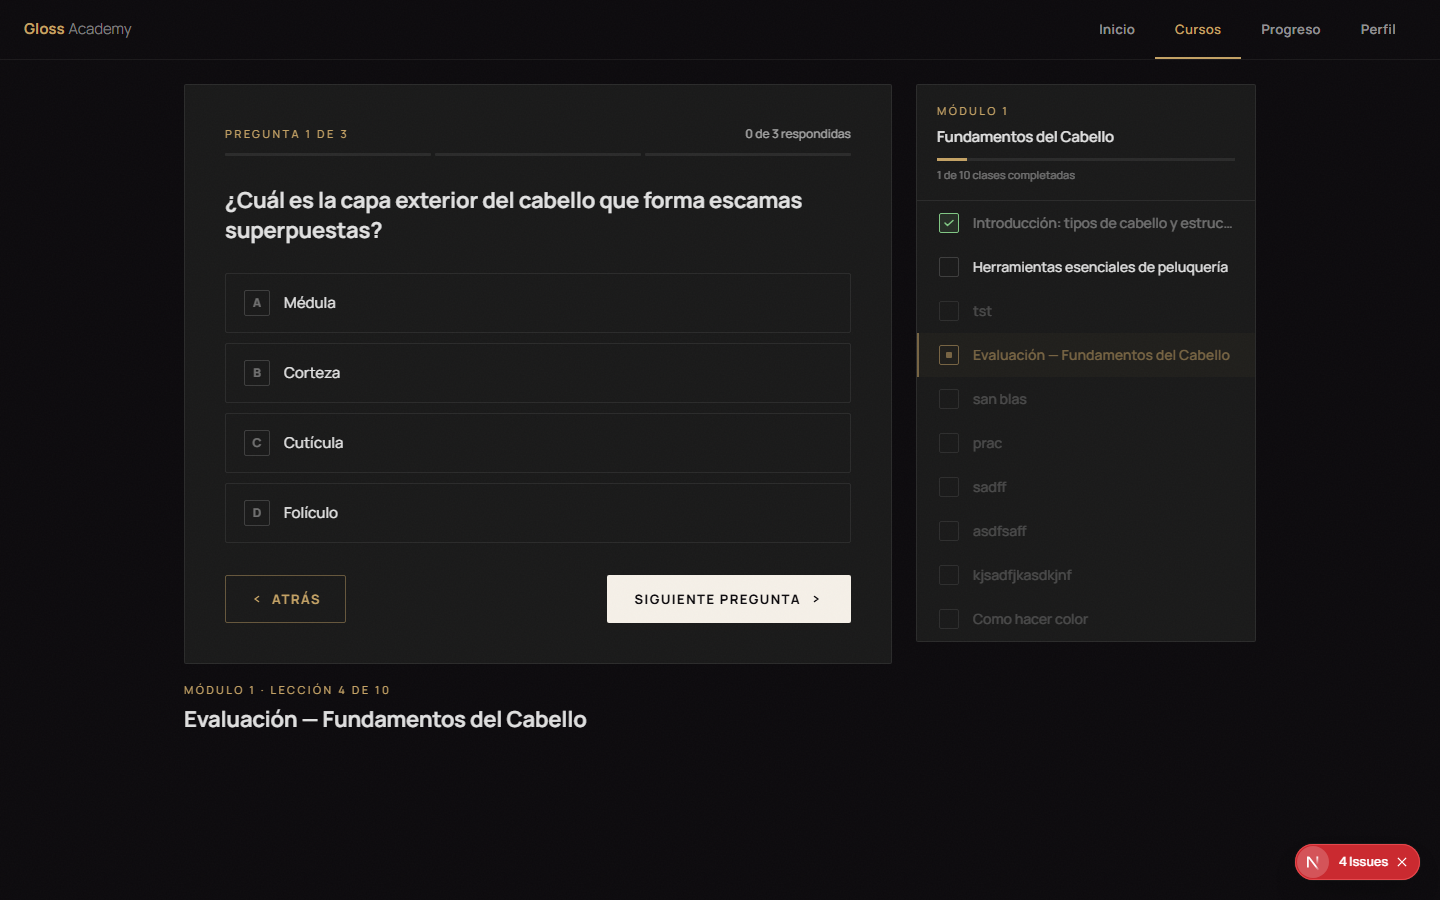
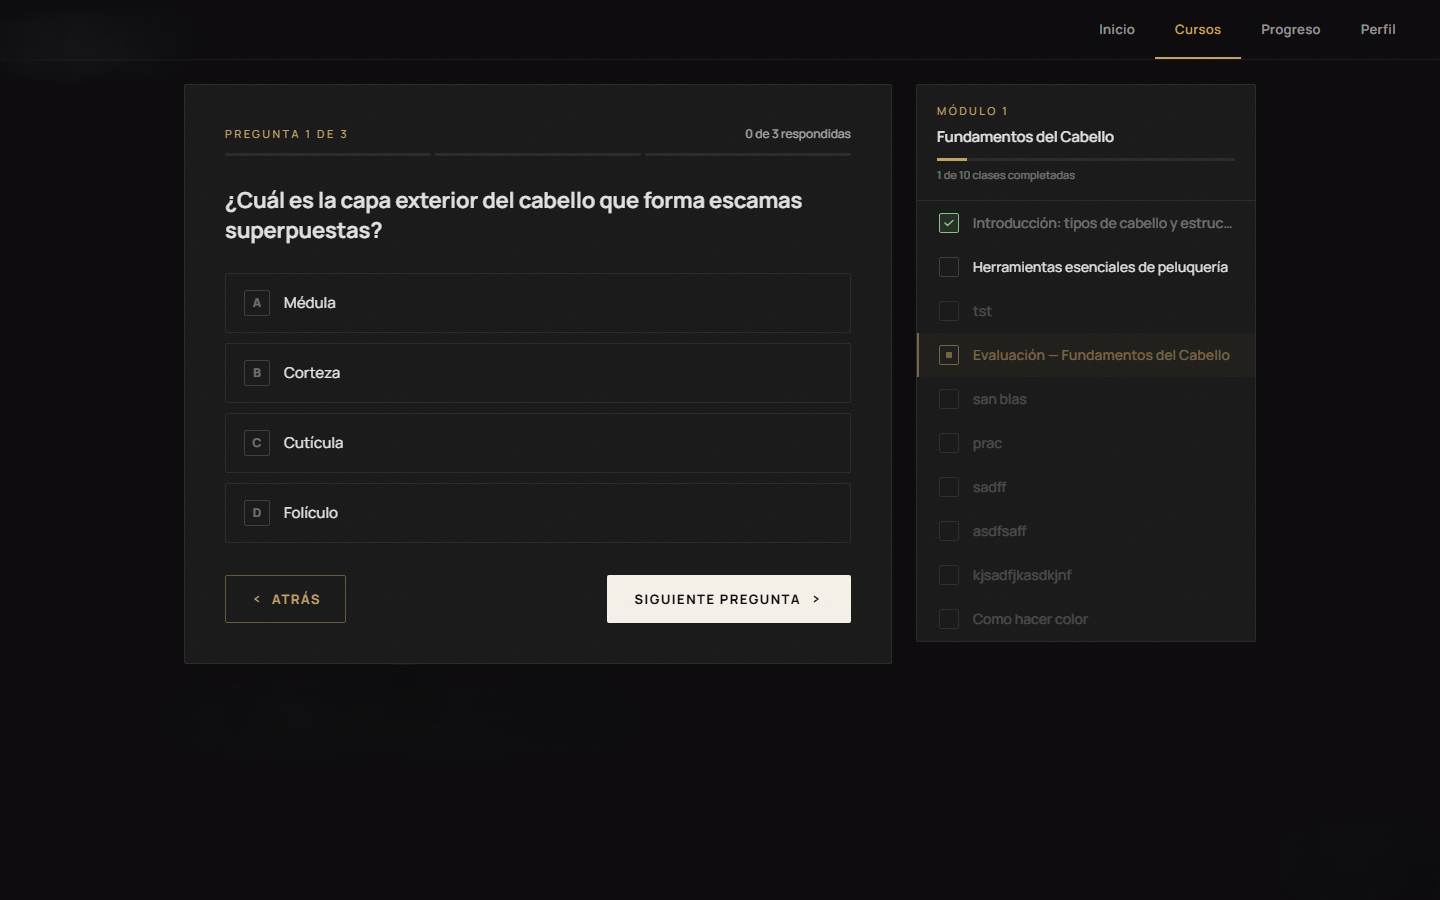
[PTASK-008] Velvet mockup — swap in Mathe's chosen screenshots (6 slides)

Changed region(s): [[0.125, 0.7467, 0.4062, 0.8089], [0.875, 0.9333, 1.0, 0.9956], [0.0312, 0.0311, 0.0938, 0.0622]]

diff --git a/components/mockups/VelvetMockup.tsx b/components/mockups/VelvetMockup.tsx
@@ -4,11 +4,12 @@ import { useEffect, useReducer, useRef } from 'react';
 import { AnimatePresence, motion, useReducedMotion } from 'motion/react';
 
 const SLIDES = [
-  { src: '/mockups/velvet/dashboard.png',  alt: 'Velvet dashboard' },
-  { src: '/mockups/velvet/lesson.png',     alt: 'Velvet lesson view' },
-  { src: '/mockups/velvet/quiz.png',       alt: 'Velvet quiz' },
-  { src: '/mockups/velvet/onboarding.png', alt: 'Velvet onboarding' },
-  { src: '/mockups/velvet/login.png',      alt: 'Velvet login' },
+  { src: '/mockups/velvet/dashboard.png',      alt: 'Velvet dashboard' },
+  { src: '/mockups/velvet/catalog.png',        alt: 'Velvet course catalog' },
+  { src: '/mockups/velvet/course-details.png', alt: 'Velvet course details' },
+  { src: '/mockups/velvet/quiz.png',           alt: 'Velvet quiz' },
+  { src: '/mockups/velvet/login.png',          alt: 'Velvet login' },
+  { src: '/mockups/velvet/footer.png',         alt: 'Velvet home' },
 ];
 
 const SLIDE_DURATION = 3000;
@@ -17,10 +18,11 @@ const FADE_DURATION  = 0.6;
 // URL labels per slide
 const URLS = [
   'velvet.app/dashboard',
-  'velvet.app/cursos/peluqueria/leccion-1',
+  'velvet.app/cursos',
+  'velvet.app/cursos/peluqueria-basica',
   'velvet.app/quiz',
-  'velvet.app/onboarding',
   'velvet.app/iniciar-sesion',
+  'velvet.app/',
 ];
 
 export default function VelvetMockup() {
